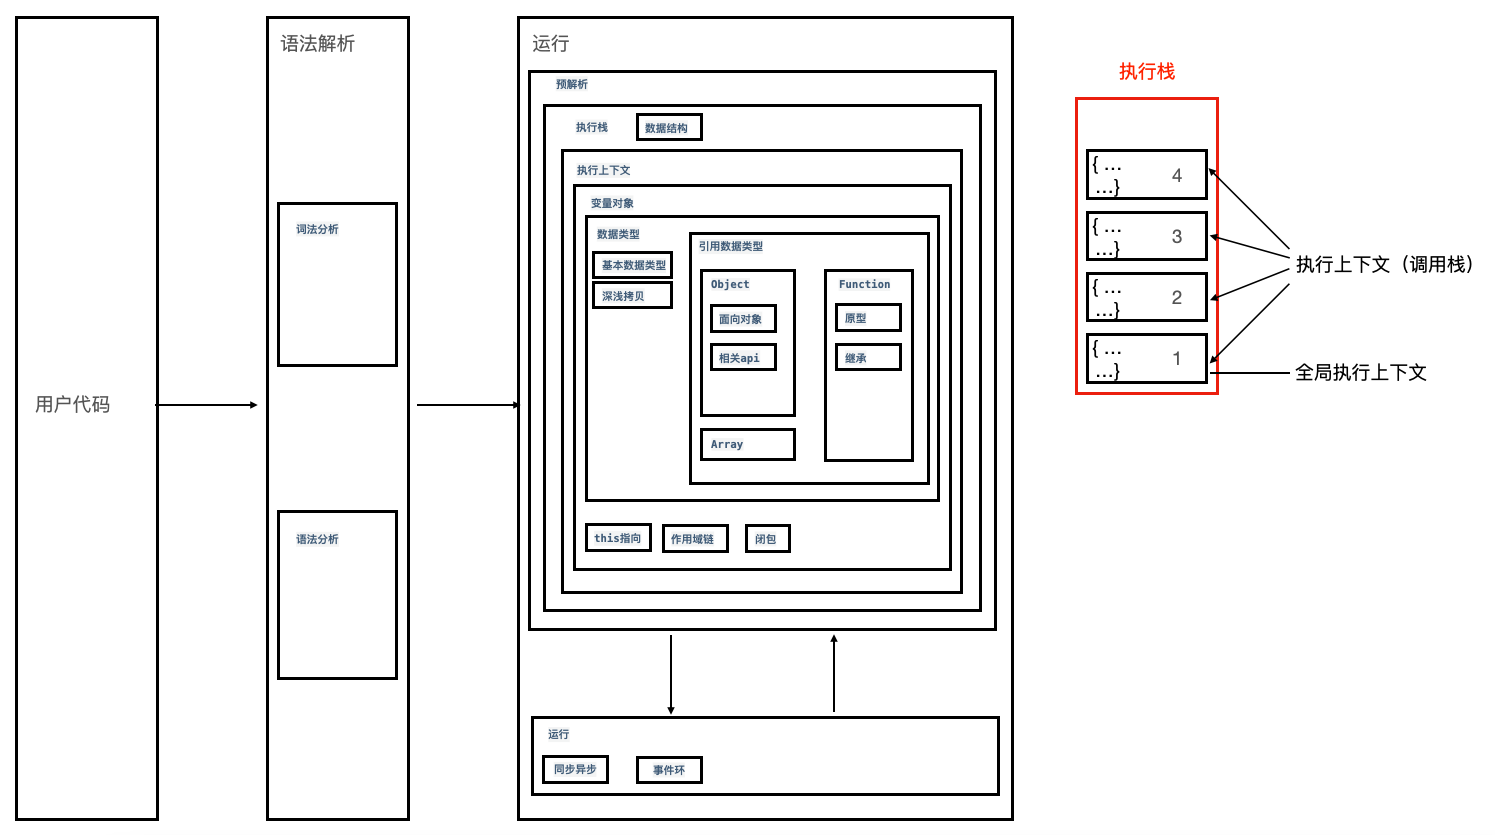
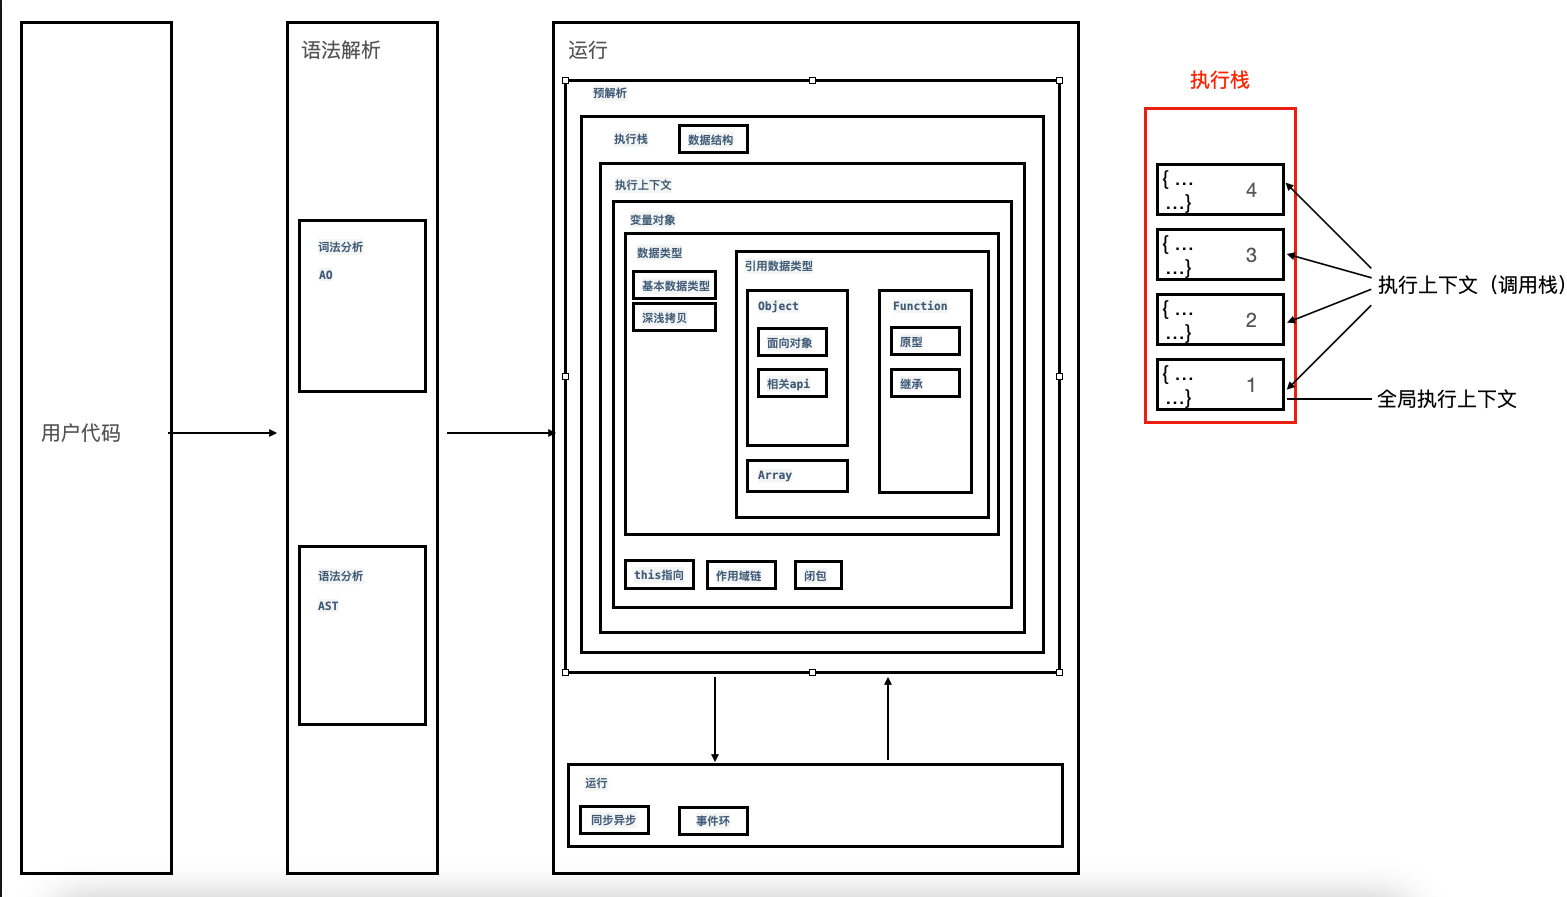
master

Changed region(s): [[0.0, 0.0, 1.0, 1.0]]

diff --git a/src/base/es6/1.scope.md b/src/base/es6/1.scope.md
@@ -324,3 +324,83 @@ for (let i = 0; i < 2; i ++){
 
 }
 ```
+## 9.var 和 let
+
+- JS 中作用域有：全局作用域、函数作用域。没有块级作用域的概念。ES6 中新增了块级作用域。
+- 块级作用域由`{}`包括，`if`语句和`for`语句里面的`{}`也属于块作用域。
+
+### 9.1 ES5 问题
+
+#### 9.1.1 全局变量
+
+- 在 if 或者 for 循环中声明的变量会变成全局变量
+
+```js
+for (var i = 0; i <= 5; i++) {
+  console.log("hello")
+}
+console.log(i) //5
+```
+
+#### 9.1.2 内层变量可能会覆盖外层变量
+
+```js
+var a = 1
+function fn() {
+  console.log(a)
+  if (false) {
+    var a = 2
+  }
+}
+fn() //undefined
+```
+
+### 9.2 let
+
+- 允许块级作用域任意嵌套
+- 外层作用域无法读取内层作用域的变量
+- 内层作用域可以定义外层作用域的同名变量
+- 函数本身的作用域在其所在的块级作用域之内
+
+```js
+"use strict"
+function fn() {
+  console.log("out")
+}
+;(function() {
+  if (false) {
+    function fn() {
+      console.log("in")
+    }
+  }
+  fn()
+})()
+```
+
+### 9.3 var let const
+
+- var 定义的变量没有块的概念，可以跨块访问，不能跨函数访问，有变量提升，可重复声明
+- let 定义的变量，只能在块作用域里访问，不能跨块访问，也不能跨函数访问，无变量提升，不可以重复声明
+- let 声明的变量只在块级作用域内有效，不存在变量提升，不可以重复声明
+- 或者说 let 变量提升了，但是在 let 声明变量前不能使用该变量，这特性叫暂时性死区
+- 如果有重复变量`let`会在编译阶段报错
+
+#### 9.3.1 暂时性死区
+
+```js
+// 不存在变量提升
+"use strict"
+function func() {
+  console.log(i)
+  let i
+}
+func() // 报错
+```
+
+#### 9.3.2 全局变量
+
+- ES5 声明变量只有两种方式：var 和 function
+- ES6 有 let、const、import、class、var、function 共六种声明变量的方式
+- 浏览器环境中顶层对象时 window，Node 中是 global 对象
+- ES5 中顶层对象的属性等价于全局变量
+- ES6 中 var、function 声明的全局变量，依然是顶层对象的属性；let、const、class 声明的全局变量不属于顶层对象的属性

diff --git a/src/base/3.javascript/7.this.md b/src/base/3.javascript/7.this.md
@@ -10,83 +10,3 @@ meta:
 
 # 七.this 指向
 
-## 9.var 和 let
-
-- JS 中作用域有：全局作用域、函数作用域。没有块级作用域的概念。ES6 中新增了块级作用域。
-- 块级作用域由`{}`包括，`if`语句和`for`语句里面的`{}`也属于块作用域。
-
-### 9.1 ES5 问题
-
-#### 9.1.1 全局变量
-
-- 在 if 或者 for 循环中声明的变量会变成全局变量
-
-```js
-for (var i = 0; i <= 5; i++) {
-  console.log("hello")
-}
-console.log(i) //5
-```
-
-#### 9.1.2 内层变量可能会覆盖外层变量
-
-```js
-var a = 1
-function fn() {
-  console.log(a)
-  if (false) {
-    var a = 2
-  }
-}
-fn() //undefined
-```
-
-### 9.2 let
-
-- 允许块级作用域任意嵌套
-- 外层作用域无法读取内层作用域的变量
-- 内层作用域可以定义外层作用域的同名变量
-- 函数本身的作用域在其所在的块级作用域之内
-
-```js
-"use strict"
-function fn() {
-  console.log("out")
-}
-;(function() {
-  if (false) {
-    function fn() {
-      console.log("in")
-    }
-  }
-  fn()
-})()
-```
-
-### 9.3 var let const
-
-- var 定义的变量没有块的概念，可以跨块访问，不能跨函数访问，有变量提升，可重复声明
-- let 定义的变量，只能在块作用域里访问，不能跨块访问，也不能跨函数访问，无变量提升，不可以重复声明
-- let 声明的变量只在块级作用域内有效，不存在变量提升，不可以重复声明
-- 或者说 let 变量提升了，但是在 let 声明变量前不能使用该变量，这特性叫暂时性死区
-- 如果有重复变量`let`会在编译阶段报错
-
-#### 9.3.1 暂时性死区
-
-```js
-// 不存在变量提升
-"use strict"
-function func() {
-  console.log(i)
-  let i
-}
-func() // 报错
-```
-
-#### 9.3.2 全局变量
-
-- ES5 声明变量只有两种方式：var 和 function
-- ES6 有 let、const、import、class、var、function 共六种声明变量的方式
-- 浏览器环境中顶层对象时 window，Node 中是 global 对象
-- ES5 中顶层对象的属性等价于全局变量
-- ES6 中 var、function 声明的全局变量，依然是顶层对象的属性；let、const、class 声明的全局变量不属于顶层对象的属性

diff --git a/src/base/3.javascript/1.index.md b/src/base/3.javascript/1.index.md
@@ -28,31 +28,3 @@ meta:
 > >   > - #### `八.同步与异步`
 > >   > - #### `九.事件环`
 > >   >   ![](./1.png)
-
-一、JavaScript基础
-
-作用域和闭包
-- [ ] 1.理解词法作用域和动态作用域
-- [ ] 2.理解JavaScript的作用域和作用域链
-- [ ] 3.理解JavaScript的执行上下文栈，可以应用堆栈信息快速定位问题
-- [x] 4.this的原理以及几种不同使用场景的取值
-- [x] 5.闭包的实现原理和作用，可以列举几个开发中闭包的实际应用
-- [x] 6.理解堆栈溢出和内存泄漏的原理，如何防止
-- [x] 7.如何处理循环的异步操作
-- [x] 8.理解模块化解决的实际问题，可列举几个模块化方案并理解其中原理
-执行机制
-- [ ] 1.为何try里面放return，finally还会执行，理解其内部机制
-- [x] 2.JavaScript如何实现异步编程，可以详细描述EventLoop机制
-- [x] 3.宏任务和微任务分别有哪些
-- [ ] 4.可以快速分析一个复杂的异步嵌套逻辑，并掌握分析方法
-- [ ] 5.使用Promise实现串行
-- [x] 6.Node与浏览器EventLoop的差异
-- [ ] 7.如何在保证页面运行流畅的情况下处理海量数据
-语法和API
-- [x] 1.理解ECMAScript和JavaScript的关系
-- [x] 2.熟练运用es5、es6提供的语法规范，
-- [x] 3.熟练掌握JavaScript提供的全局对象（例如Date、Math）、全局函数（例如decodeURI、isNaN）、全局属性（例如Infinity、undefined）
-- [x] 4.熟练应用map、reduce、filter 等高阶函数解决问题
-- [ ] 5.setInterval需要注意的点，使用settimeout实现setInterval
-- [ ] 6.JavaScript提供的正则表达式API、可以使用正则表达式（邮箱校验、URL解析、去重等）解决常见问题
-- [x] 7.JavaScript异常处理的方式，统一的异常处理方案

diff --git a/src/base/3.javascript/1.grammar.md b/src/base/3.javascript/1.grammar.md
@@ -8,4 +8,27 @@ meta:
     content: vuepress,最新技术文档,vuepress语法,markdown语法
 ---
 
-# 一.语法分析
+# 一.词法分析
+
+::: tip 前言
+词法分析是将字符流（char steam）转换为记号流（token stream）。把输入的字符串分解为一些对编程语言有意义的代码块（词法单元）
+:::
+
+javaScript 代码运行前有一个类似编译的过程即词法分析，词法分析主要有三步：
+
+- 分析参数
+- 分析变量的声明
+- 分析函数的声明
+
+## 1.活动对象
+
+函数在运行的瞬间，生成一个活动对象（Active Object）,简称 AO
+
+- 分析参数
+  - 函数接收形式参数，添加到 AO 的属性，并且这个时候值为 undefined，即 AO.[xxx]=undefined
+  - 接收实参，添加到 AO 的属性，覆盖之前的 undefine
+- 分析变量声明
+  - 如果上一步分析参数中 AO 还没有`xxx`属性，则添加 AO 属性为 undefined,即 AO.[xxx]=undefined
+  - 如果 AO 上面已经有`xxx`属性了，则不作任何修改
+- 分析函数声明
+  - 如果`function [xxx](){}`把函数赋值给 AO.[xxx]，覆盖上一步分析的值

diff --git a/src/base/3.javascript/2.morphology.md b/src/base/3.javascript/2.morphology.md
@@ -8,4 +8,8 @@ meta:
     content: vuepress,最新技术文档,vuepress语法,markdown语法
 ---
 
-# 二.词法分析
+# 二.语法分析
+
+::: tip 前言
+将上一步的词法单元集合分析合并，最终转换为一个由元素逐级嵌套所组成的代表了程序语法结构的树，即抽象语法树（AST）
+:::
